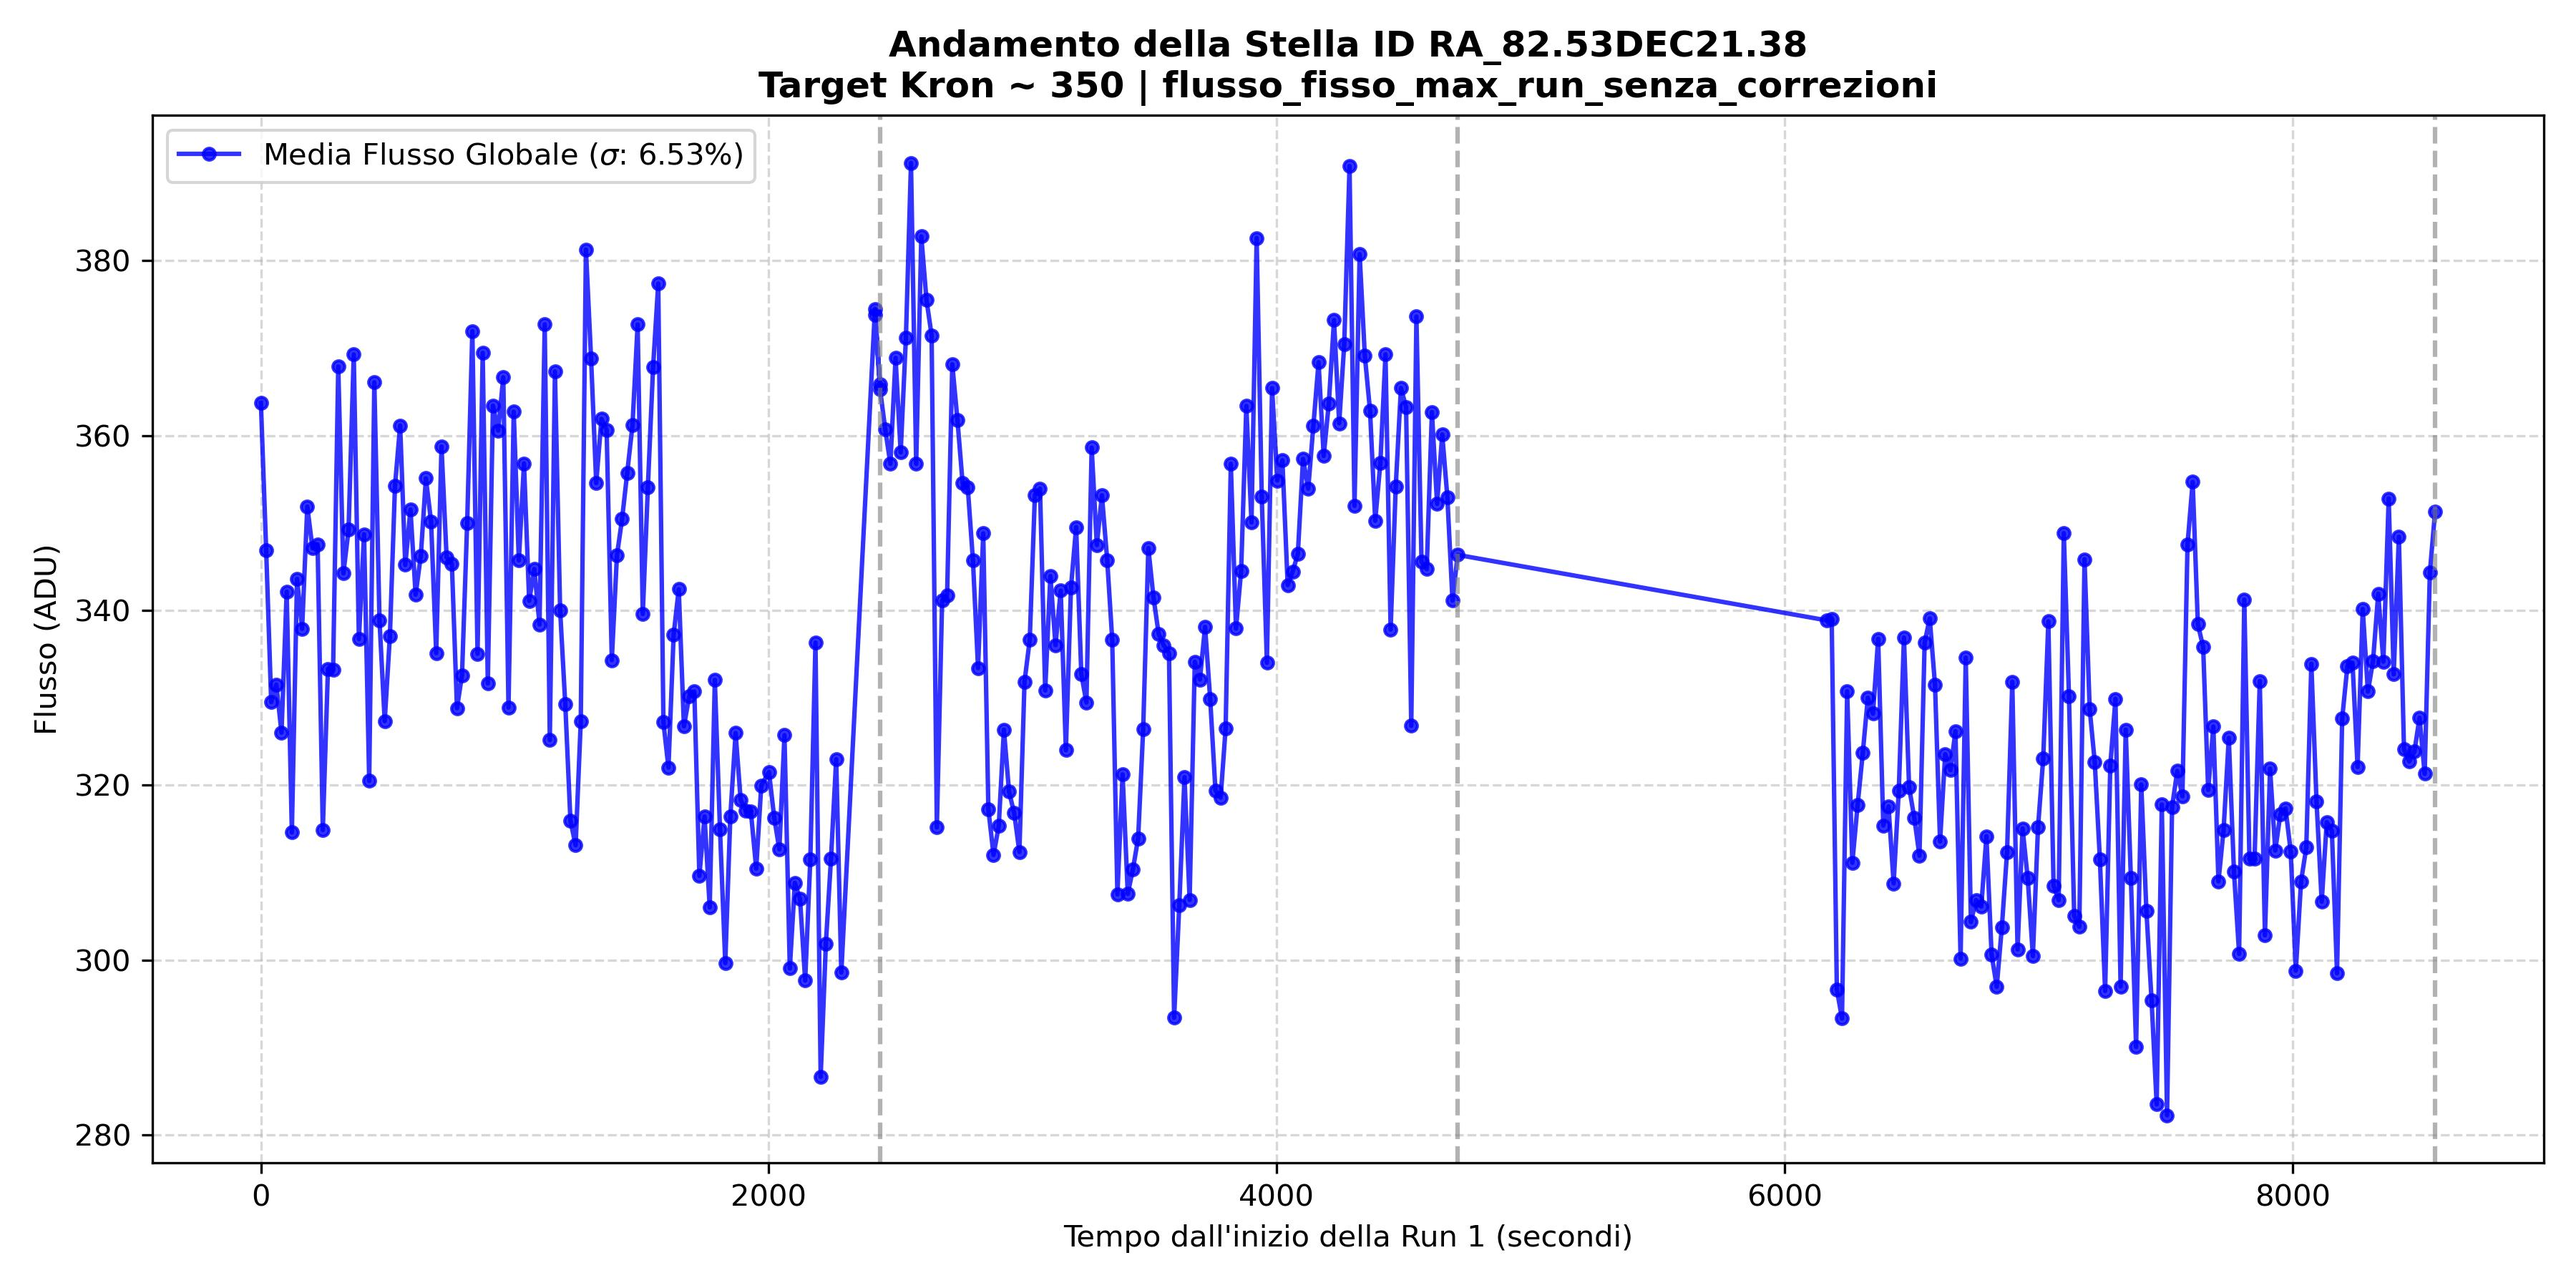
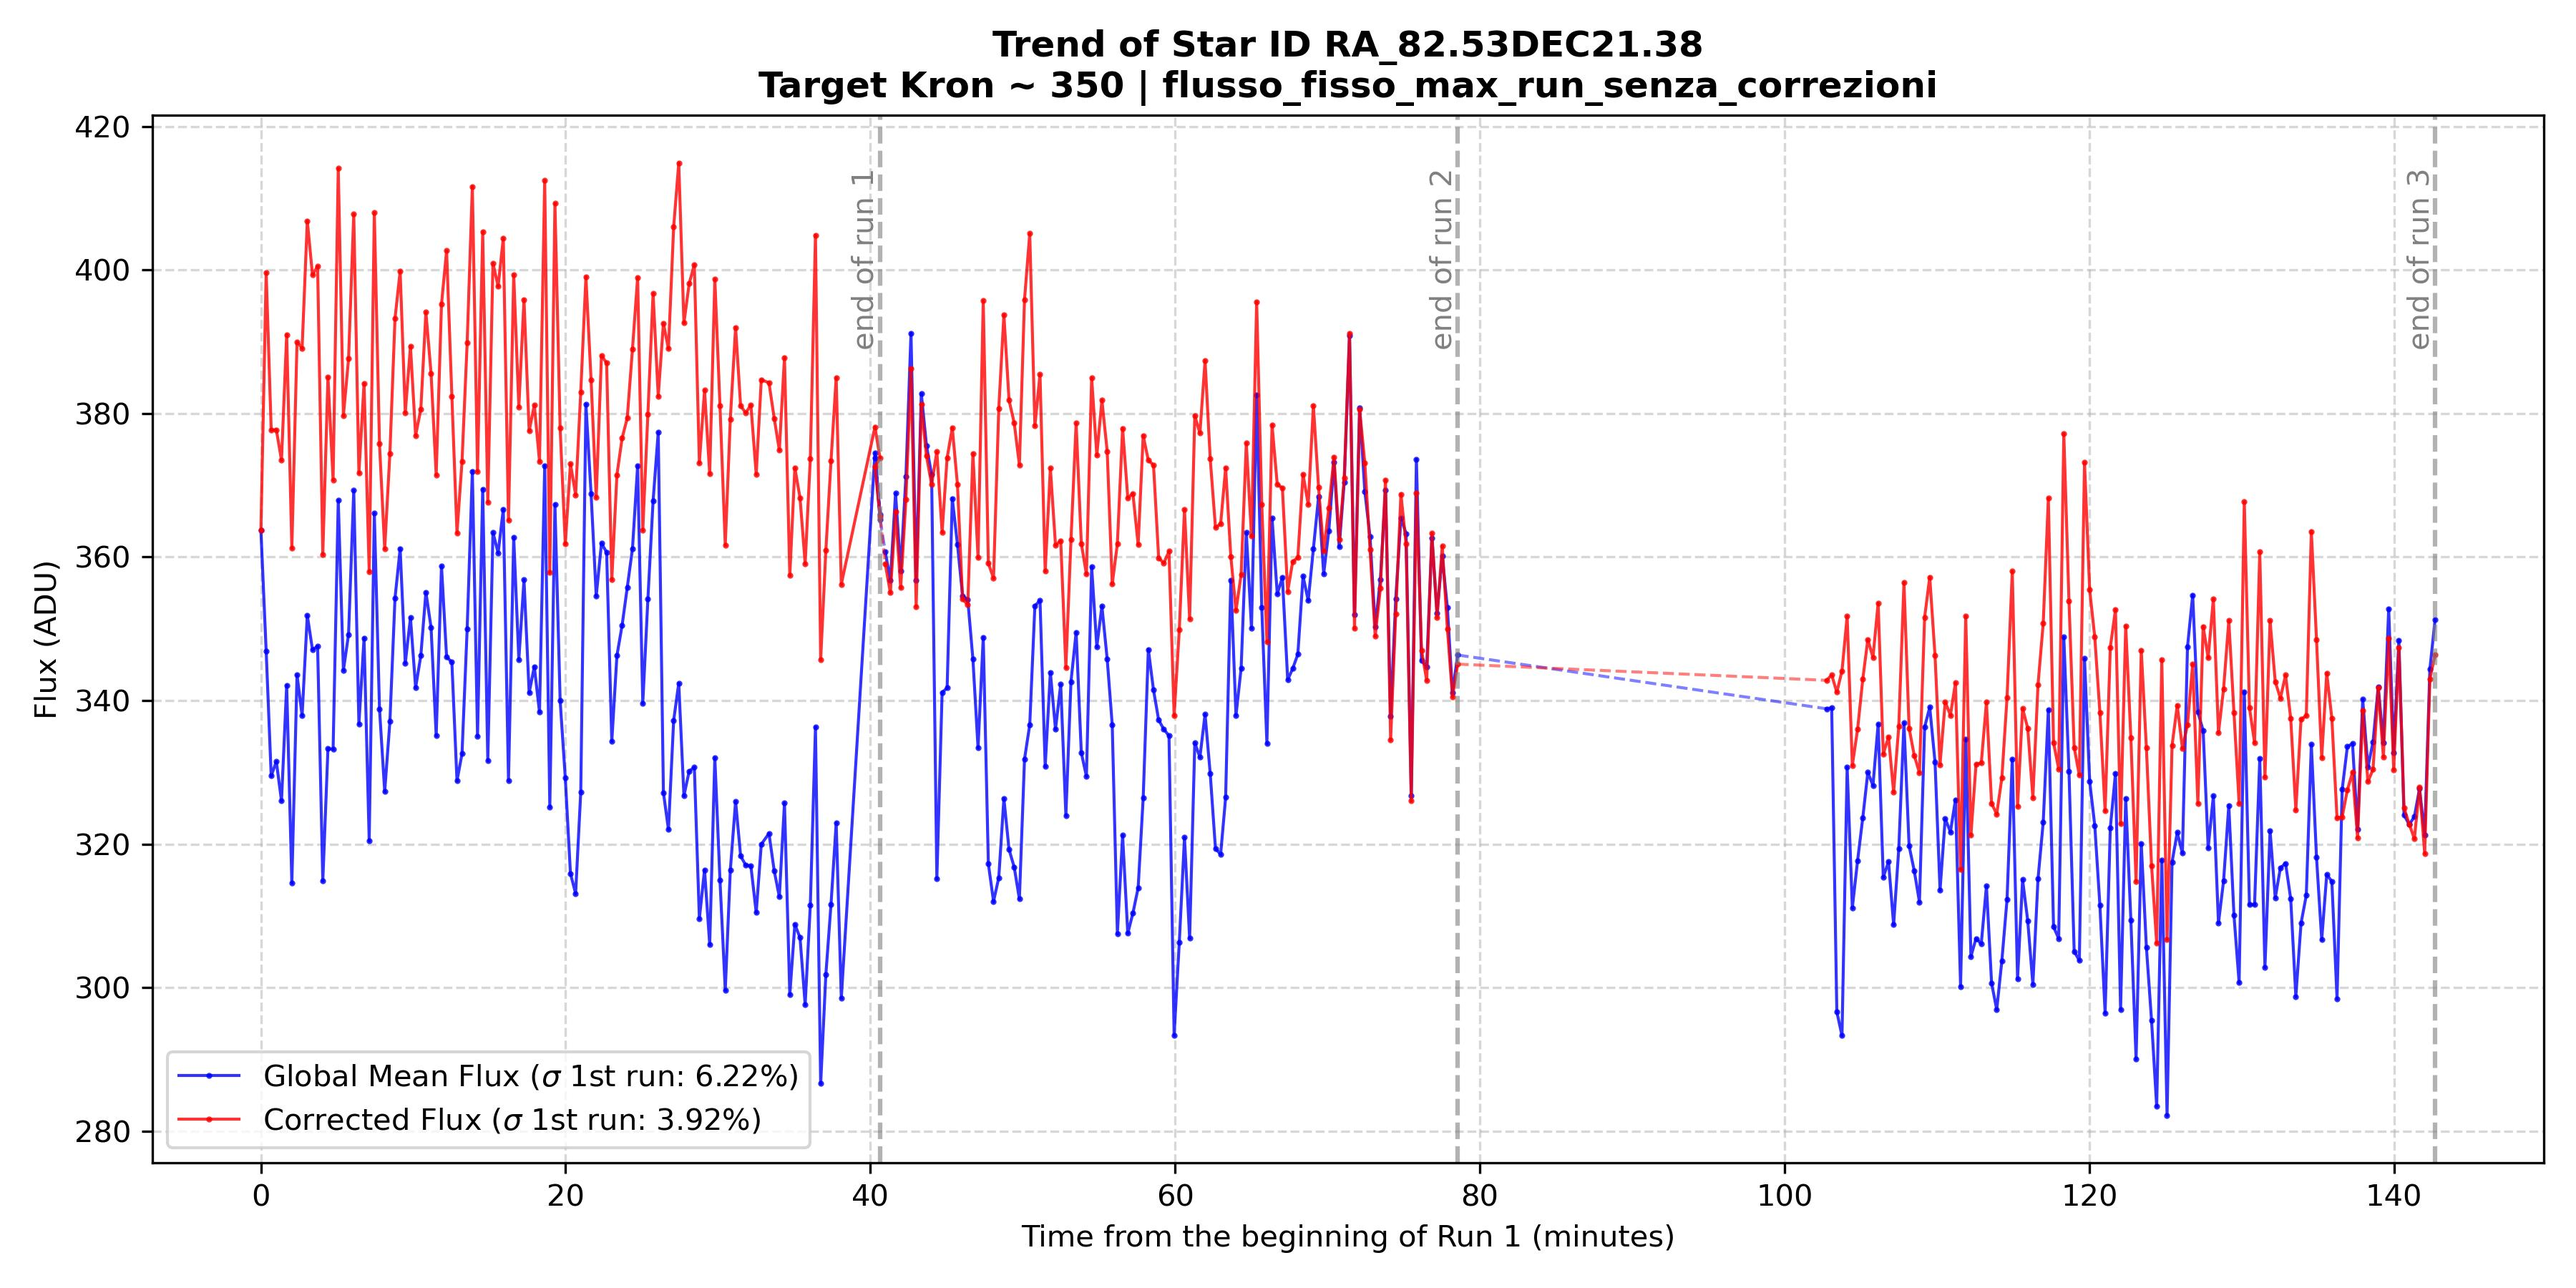
edc

diff --git a/prove_2/analisi/studio_flussi/studio_kron_definitivo/andamento_flusso_parquet.py b/prove_2/analisi/studio_flussi/studio_kron_definitivo/andamento_flusso_parquet.py
@@ -12,6 +12,7 @@ import warnings
 from astropy.wcs import FITSFixedWarning
 from astropy.io.fits.verify import VerifyWarning
 from astropy.utils.exceptions import AstropyUserWarning
+from collections import Counter
 
 # gestisco i warning ignorandoli
 warnings.filterwarnings('ignore', category=FITSFixedWarning)
@@ -86,6 +87,7 @@ if not lista_percorsi_parquet:
 
 print("--- FASE 0: Ricavo gli ID comuni presenti in tutte le run ---")
 id_comuni = None
+conteggio_totale_id = Counter()
 
 # eseguo un ciclo su ogni run per estrarre gli ID univoci
 for run in tqdm(run_list):
@@ -109,7 +111,11 @@ for run in tqdm(run_list):
         try:
             # leggo solo la colonna ID per massimizzare le prestazioni
             df_tmp = pd.read_parquet(f_par, columns=['label'])
-            id_run_corrente.update(df_tmp['label'].dropna().unique())
+            labels = df_tmp['label'].dropna()
+            id_run_corrente.update(labels.unique())
+
+            # aggiorno il conteggio totale delle presenze per ogni ID in tutte le run
+            conteggio_totale_id.update(labels)
         except Exception:
             pass
 
@@ -119,11 +125,15 @@ for run in tqdm(run_list):
     else:
         id_comuni = id_comuni.intersection(id_run_corrente)
 
+# filtro l'insieme degli ID comuni mantenendo solo quelli che compaiono almeno 70 volte in totale
+if id_comuni is not None:
+    id_comuni = {id_obj for id_obj in id_comuni if conteggio_totale_id[id_obj] >= 70}
+
 if not id_comuni:
-    print("Errore: nessun ID comune trovato in tutte le run indicate.")
+    print("Errore: nessun ID comune trovato in tutte le run indicate con almeno 70 comparse totali.")
     exit()
 
-print(f"Trovati {len(id_comuni)} ID che compaiono in tutte le {len(run_list)} run.")
+print(f"Trovati {len(id_comuni)} ID che compaiono in tutte le {len(run_list)} run e con almeno 70 presenze totali.")
 
 # --- FASE 1: IDENTIFICAZIONE STELLA TARGET ---
 
@@ -141,7 +151,7 @@ tbl_ref = Table.from_pandas(df_ref)
 # filtro solo le stelle che hanno una corrispondenza nel catalogo verificando che il booleano sia True
 mask_si = tbl_ref['Corrispondenza'] == True
 
-# mi assicuro che la stella compaia almeno una volta in tutte e tre le run
+# mi assicuro che la stella compaia almeno una volta in tutte e tre le run e rispetti il limite minimo di comparse
 mask_comuni = np.isin(tbl_ref['label'], list(id_comuni))
 
 # unisco le due condizioni
@@ -185,9 +195,10 @@ def converti_valore(valore):
     return valore
 
 
-# definisco l'unica colonna che mi interessa studiare
+# definisco le due colonne che mi interessa studiare
 colonna_target = 'flusso_fisso_max_run_senza_correzioni'
-all_data = {colonna_target: []}
+colonna_corretta = 'flusso_fisso_max_run_CORRETTO_Correzione_Additiva_dell_Apertura_DECORRELAZIONE_STELLE_GLOBALE'
+all_data = {colonna_target: [], colonna_corretta: []}
 
 all_times = []
 t0_global = None
@@ -230,8 +241,8 @@ for run in run_list:
             if t0_global is None:
                 t0_global = t_curr
 
-            # sottraggo il tempo di base per avere il tempo relativo e converto da millisecondi a secondi
-            tempo_relativo = (t_curr - t0_global) / 1000.0 if t0_global is not None else 0
+            # sottraggo il tempo di base per avere il tempo relativo e converto da millisecondi a minuti
+            tempo_relativo = (t_curr - t0_global) / 60000.0 if t0_global is not None else 0
 
             mask_target = tbl_frame['label'] == id_stella_target
             stella_nel_frame = tbl_frame[mask_target]
@@ -246,8 +257,19 @@ for run in run_list:
                     all_data[colonna_target].append(val)
                 else:
                     all_data[colonna_target].append(np.nan)
+
+                # estraggo i dati anche per la colonna del flusso corretto
+                if colonna_corretta in stella_nel_frame.colnames:
+                    try:
+                        val_corr = float(stella_nel_frame[colonna_corretta][0])
+                    except (ValueError, TypeError):
+                        val_corr = np.nan
+                    all_data[colonna_corretta].append(val_corr)
+                else:
+                    all_data[colonna_corretta].append(np.nan)
             else:
                 all_data[colonna_target].append(np.nan)
+                all_data[colonna_corretta].append(np.nan)
 
             all_times.append(tempo_relativo)
 
@@ -275,32 +297,91 @@ def calc_stats(arr, mask):
     return 0.0, 0.0
 
 
+def plot_andamento_a_tratti(t_arr, y_arr, valid_mask, colore, etichetta):
+    # aggiungo l'etichetta solo al primo tratto per non duplicarla nella legenda
+    etichetta_aggiunta = False
+    t_ultimo_prev = None
+    y_ultimo_prev = None
+
+    t_inizio = -1.0  # inizializzo a un valore negativo per includere lo 0
+
+    for r_idx, (run_num, t_end) in enumerate(run_boundaries):
+        # creo la maschera per la run corrente
+        mask_run_corrente = valid_mask & (t_arr > t_inizio) & (t_arr <= t_end)
+
+        if np.sum(mask_run_corrente) > 0:
+            t_corrente = t_arr[mask_run_corrente]
+            y_corrente = y_arr[mask_run_corrente]
+
+            # traccio i punti della run con linea continua
+            plt.plot(t_corrente, y_corrente,
+                     marker='o', linestyle='-', linewidth=1., markersize=1, alpha=0.8, color=colore,
+                     label=etichetta if not etichetta_aggiunta else "")
+            etichetta_aggiunta = True
+
+            # traccio il segmento tratteggiato che unisce questa run alla precedente
+            if t_ultimo_prev is not None:
+                plt.plot([t_ultimo_prev, t_corrente[0]], [y_ultimo_prev, y_corrente[0]],
+                         linestyle='--', linewidth=1., alpha=0.5, color=colore)
+
+            # aggiorno l'ultimo punto per il ciclo successivo
+            t_ultimo_prev = t_corrente[-1]
+            y_ultimo_prev = y_corrente[-1]
+
+        t_inizio = t_end
+
+
 print(f"\n=== GENERAZIONE GRAFICO PER {colonna_target} ===")
 
 arr = np.array(all_data[colonna_target])
 mask = (arr > 0) & (~np.isnan(arr))
 
-if np.sum(mask) == 0:
-    print(f"Nessun dato valido per {colonna_target}, impossibile generare il grafico.")
+# preparo gli array e la maschera per la seconda colonna
+arr_corr = np.array(all_data[colonna_corretta])
+mask_corr = (arr_corr > 0) & (~np.isnan(arr_corr))
+
+if np.sum(mask) == 0 and np.sum(mask_corr) == 0:
+    print("Nessun dato valido da rappresentare, impossibile generare il grafico.")
 else:
-    media, std = calc_stats(arr, mask)
-    err_pct = (std / media * 100) if media != 0 else 0
+    # identifico il tempo limite della prima run per il calcolo della sigma
+    t_end_run1 = run_boundaries[0][1] if len(run_boundaries) > 0 else times_arr[-1]
+
+    # creo le maschere filtrando solo i dati appartenenti alla prima run
+    mask_run1 = mask & (times_arr <= t_end_run1)
+    mask_corr_run1 = mask_corr & (times_arr <= t_end_run1)
+
+    # calcolo le statistiche sulla prima run per il flusso originale
+    media_run1, std_run1 = calc_stats(arr, mask_run1)
+    err_pct_run1 = (std_run1 / media_run1 * 100) if media_run1 != 0 else 0
+
+    # calcolo le statistiche sulla prima run per il flusso corretto
+    media_corr_run1, std_corr_run1 = calc_stats(arr_corr, mask_corr_run1)
+    err_pct_corr_run1 = (std_corr_run1 / media_corr_run1 * 100) if media_corr_run1 != 0 else 0
 
     # creo la singola figura
     plt.figure(figsize=(12, 6))
 
-    plt.plot(times_arr[mask], arr[mask],
-             marker='o', linestyle='-', linewidth=1., markersize=1, alpha=0.8, color='blue',
-             label=rf"Media Flusso Globale ($\sigma$: {err_pct:.2f}%)")
+    if np.sum(mask) > 0:
+        # richiamo la funzione per plottare il flusso originale a tratti
+        plot_andamento_a_tratti(times_arr, arr, mask, 'blue',
+                                rf"Global Mean Flux ($\sigma$ 1st run: {err_pct_run1:.2f}%)")
 
-    # disegno le linee divisorie per evidenziare le run
+    if np.sum(mask_corr) > 0:
+        # richiamo la funzione per plottare il flusso corretto a tratti sovrapposti
+        plot_andamento_a_tratti(times_arr, arr_corr, mask_corr, 'red',
+                                rf"Corrected Flux ($\sigma$ 1st run: {err_pct_corr_run1:.2f}%)")
+
+    # disegno le linee divisorie per evidenziare le run e aggiungo i testi
     for r_idx, (run_num, t_end) in enumerate(run_boundaries):
         plt.axvline(x=t_end, color='gray', linestyle='--', alpha=0.6)
+        # aggiungo il testo richiesto accanto alle linee divisorie
+        plt.text(t_end, 0.95, f'end of run {run_num}', color='gray', ha='right', va='top', rotation=90,
+                 transform=plt.gca().get_xaxis_transform())
 
-    plt.title(f'Andamento della Stella ID {id_stella_target}\nTarget Kron ~ {KRON_TARGET} | {colonna_target}',
+    plt.title(f'Trend of Star ID {id_stella_target}\nTarget Kron ~ {KRON_TARGET} | {colonna_target}',
               fontsize=12, fontweight='bold')
-    plt.xlabel("Tempo dall'inizio della Run 1 (secondi)")
-    plt.ylabel("Flusso (ADU)")
+    plt.xlabel("Time from the beginning of Run 1 (minutes)")
+    plt.ylabel("Flux (ADU)")
     plt.grid(True, linestyle='--', alpha=0.5)
     plt.legend(fontsize='medium', loc='best')
 
